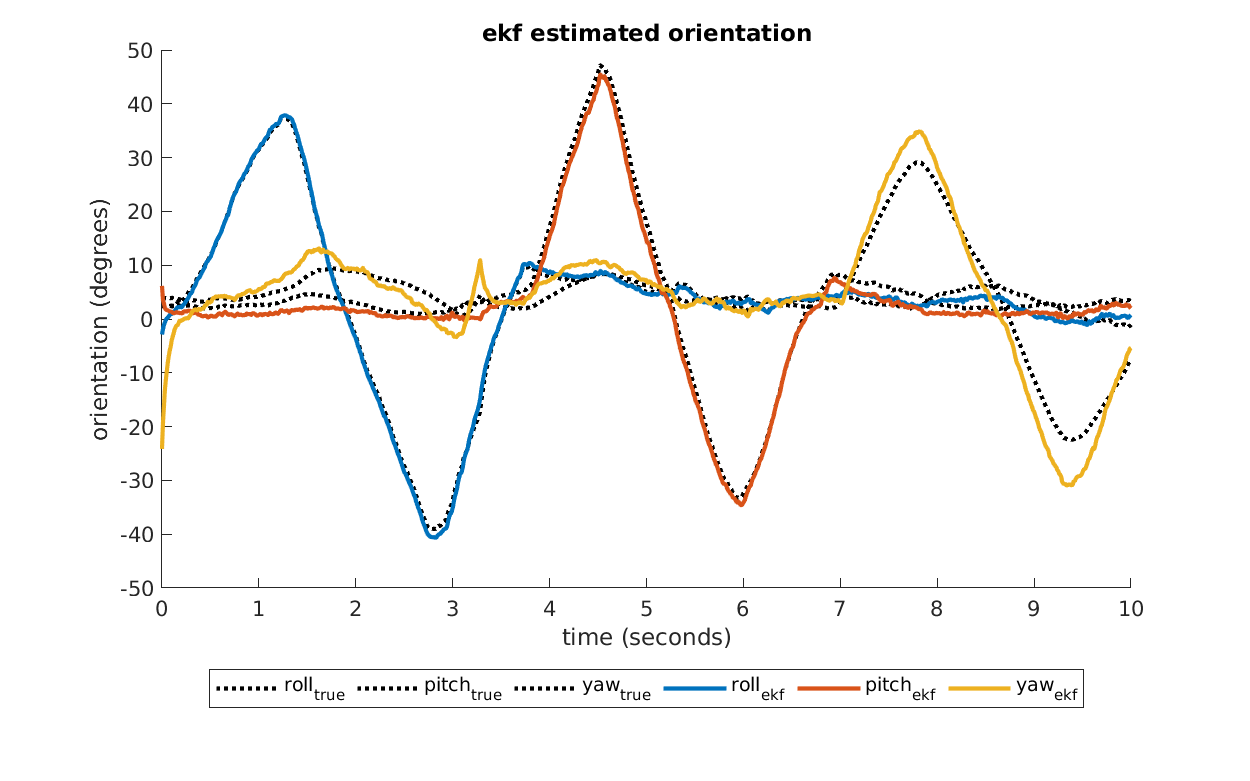
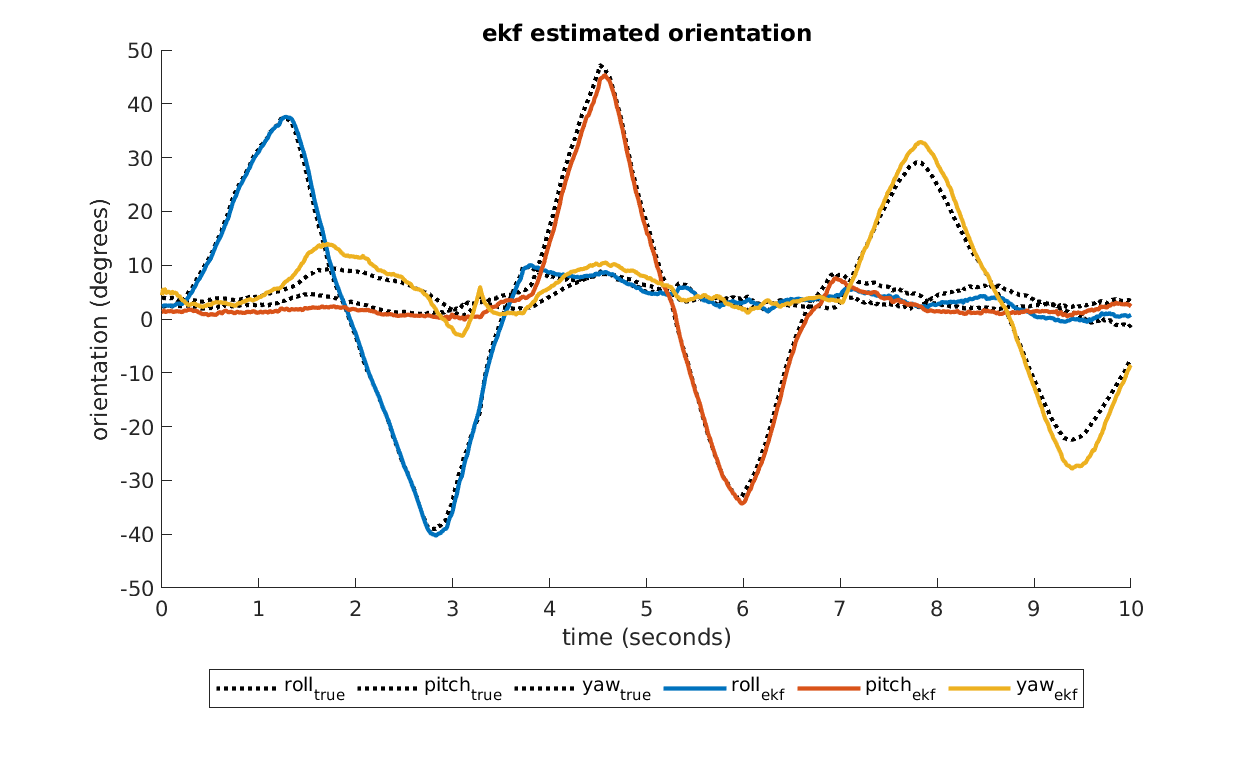
- EKF moving dataset plot fig updated

diff --git a/devel/EKF_test.m b/devel/EKF_test.m
@@ -9,7 +9,7 @@ load("mahony_filtered_dataset.mat");
 
 %%
 ahrs = EKF;
-rpy = ahrs.Run(accel, gyro, mag);
+rpy = ahrs.Filter(accel, gyro, mag);
 fig = ahrs.Plot(rpy, rpy_mahony);
 path = fullfile('~','AHRS', 'docs', 'offline_ekf_test.png');
 saveas(fig, path);
